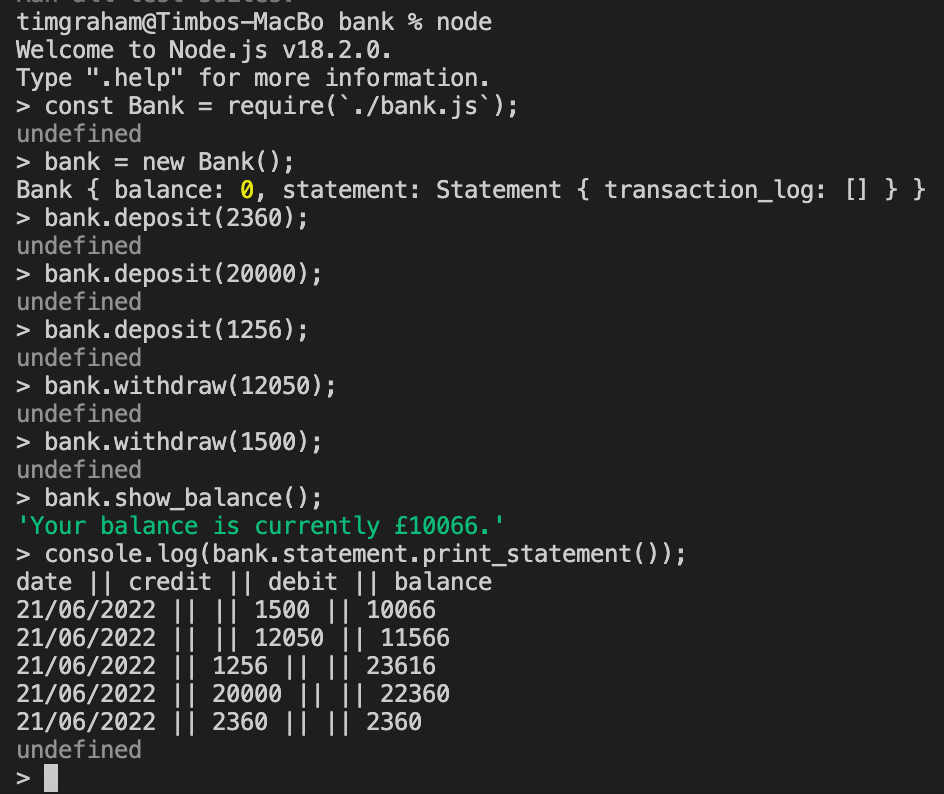
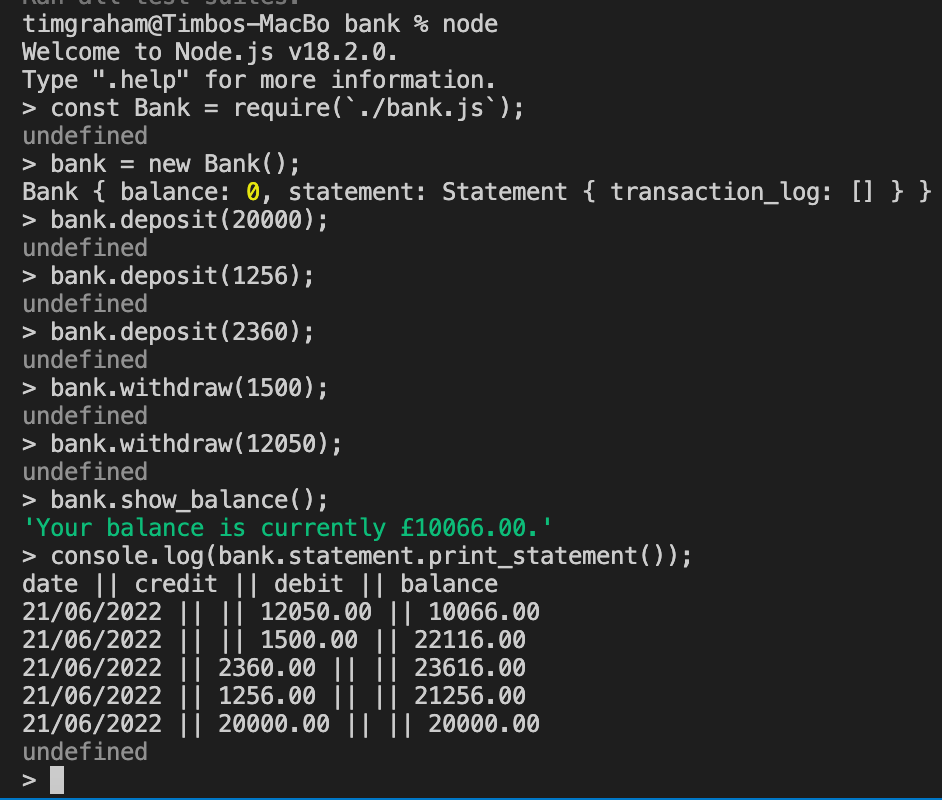
Refactored tests and code to display decimal points after numbers

Changed region(s): [[0.0, 0.0, 1.0, 1.0]]

diff --git a/statement.test.js b/statement.test.js
@@ -7,7 +7,7 @@ describe(`statement class`, () => {
 
     bank.deposit(500);
     
-    expect(bank.statement.transaction_log).toContain(`${today.toLocaleDateString(`en-UK`)} || 500 || || 500\n`);
+    expect(bank.statement.transaction_log).toContain(`${today.toLocaleDateString(`en-UK`)} || 500.00 || || 500.00\n`);
   })
 
   it(`making a withdrawal saves transaction info to the statement array`, () => {
@@ -17,7 +17,7 @@ describe(`statement class`, () => {
     bank.balance += 1000;
     bank.withdraw(500);
   
-    expect(bank.statement.transaction_log).toContain(`${today.toLocaleDateString(`en-UK`)} || || 500 || 500\n`);
+    expect(bank.statement.transaction_log).toContain(`${today.toLocaleDateString(`en-UK`)} || || 500.00 || 500.00\n`);
   })
 
   it(`can print a statement of all relevant transactions, in reverse order`, () => {
@@ -28,7 +28,7 @@ describe(`statement class`, () => {
     bank.withdraw(250);
 
     expect(bank.statement.print_statement()).toEqual(
-      `date || credit || debit || balance\n${today.toLocaleDateString(`en-UK`)} || || 250 || 250\n${today.toLocaleDateString(`en-UK`)} || 500 || || 500`
+      `date || credit || debit || balance\n${today.toLocaleDateString(`en-UK`)} || || 250.00 || 250.00\n${today.toLocaleDateString(`en-UK`)} || 500.00 || || 500.00`
       );
   })
 })

diff --git a/statement.js b/statement.js
@@ -8,12 +8,12 @@ class Statement {
 
   log_deposit (amount, balance) {
     let date = this.date();
-    this.transaction_log.push(`${date} || ${amount} || || ${balance}\n`);
+    this.transaction_log.push(`${date} || ${(amount).toFixed(2)} || || ${(balance).toFixed(2)}\n`);
   }
 
   log_withdrawal (amount, balance) {
     let date = this.date();
-    this.transaction_log.push(`${date} || || ${amount} || ${balance}\n`);
+    this.transaction_log.push(`${date} || || ${(amount).toFixed(2)} || ${(balance).toFixed(2)}\n`);
   }
 
   print_statement () {

diff --git a/bank.test.js b/bank.test.js
@@ -26,6 +26,6 @@ describe(`bank class`, () => {
     const bank = new Bank();
     bank.deposit(500);
 
-    expect(bank.show_balance()).toEqual(`Your balance is currently £500.`);
+    expect(bank.show_balance()).toEqual(`Your balance is currently £500.00.`);
   })
 })

diff --git a/bank.js b/bank.js
@@ -20,7 +20,7 @@ class Bank {
   }
 
   show_balance () {
-    return `Your balance is currently £${this.balance}.`
+    return `Your balance is currently £${(this.balance).toFixed(2)}.`
   }
 
 }
